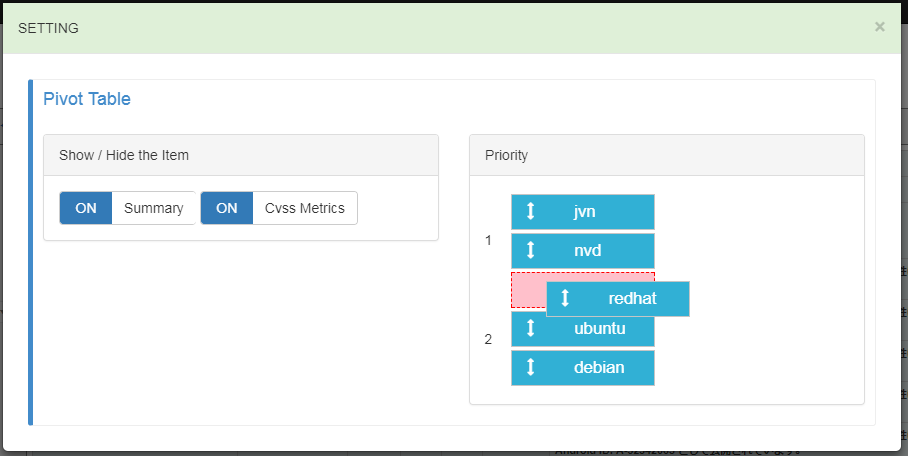
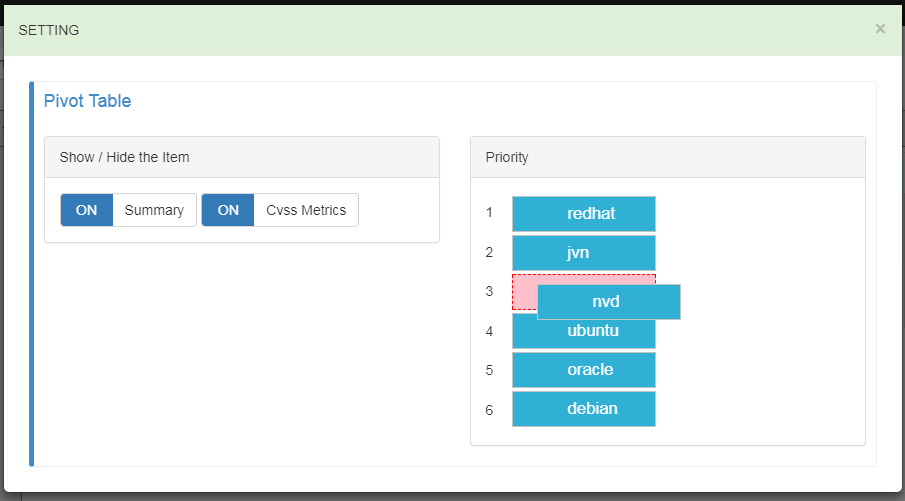
modify demo

diff --git a/dist/js/vulsrepo.js b/dist/js/vulsrepo.js
@@ -782,7 +782,7 @@ const createDetailData = function(cveID) {
 const initDetail = function() {
     $("#modal-label").text("");
     $("#count-References").text("0");
-    $("#CweID,#Link,#References").empty();
+    $("#CweID,#Link,#References,#radar-caluclatorV2,#radar-caluclatorV3").empty();
 
     $.each(vulsrepo.detailTaget, function(i, i_val) {
         $("#typeName_" + i_val).empty();
@@ -1030,6 +1030,10 @@ const displayDetail = function(cveID) {
         }
     }
 
+
+
+
+
     // ---Link---
     var addLink = function(target, url, disp) {
         $(target).append("<a href=\"" + url + "\" target='_blank'>" + disp + " </a>");
@@ -1039,14 +1043,9 @@ const displayDetail = function(cveID) {
     $("#Link").append("<span> / </span>");
     addLink("#Link", detailLink.cveDetail.url + data.CveID, detailLink.cveDetail.disp);
     $("#Link").append("<span> / </span>");
-    addLink("#Link", detailLink.cvssV2Calculator.url + data.CveID, detailLink.cvssV2Calculator.disp);
-    $("#Link").append("<span> / </span>");
-    addLink("#Link", detailLink.cvssV3Calculator.url + data.CveID, detailLink.cvssV3Calculator.disp);
-    $("#Link").append("<span> / </span>");
     $.each(getDistroAdvisoriesArray(data.DistroAdvisories), function(i, i_val) {
         addLink("#Link", i_val.url, i_val.disp);
     });
-
 
     addLink("#typeName_nvd", detailLink.nvd.url + data.CveID, detailLink.nvd.disp);
     if (data.CveContents.jvn !== undefined) {
@@ -1063,6 +1062,9 @@ const displayDetail = function(cveID) {
     addLink("#typeName_ubuntu", detailLink.ubuntu.url + data.CveID, detailLink.ubuntu.disp);
     addLink("#typeName_debian", detailLink.debian.url + data.CveID, detailLink.debian.disp);
     addLink("#typeName_oracle", detailLink.oracle.url + data.CveID + ".html", detailLink.oracle.disp);
+
+    addLink("#radar-caluclatorV2", detailLink.cvssV2Calculator.url + data.CveID, detailLink.cvssV2Calculator.disp);
+    addLink("#radar-caluclatorV3", detailLink.cvssV3Calculator.url + data.CveID, detailLink.cvssV3Calculator.disp);
 
     // ---References---
     let countRef = 0;

diff --git a/index.html b/index.html
@@ -213,9 +213,11 @@
                                                     <div class="tab-content">
                                                         <div class="tab-pane active" id="tab_chart_v2">
                                                             <canvas id="radar-chartV2" width="380" height="380"></canvas>
+                                                            <div id="radar-caluclatorV2" Align="center"></div>
                                                         </div>
                                                         <div class="tab-pane" id="tab_chart_v3">
                                                             <canvas id="radar-chartV3" width="380" height="380"></canvas>
+                                                            <div id="radar-caluclatorV3" Align="center"></div>
                                                         </div>
 
                                                     </div>
@@ -338,7 +340,7 @@
                                             <tbody>
                                                 <tr>
                                                     <td>1</td>
-                                                    <td rowspan="5">
+                                                    <td rowspan="6">
                                                         <ul id="pivot-priority">
                                                         </ul>
                                                     </td>
@@ -354,6 +356,9 @@
                                                 </tr>
                                                 <tr>
                                                     <td>5</td>
+                                                </tr>
+                                                <tr>
+                                                    <td>6</td>
                                                 </tr>
                                             </tbody>
                                         </table>

diff --git a/dist/js/vulsrepo_common.js b/dist/js/vulsrepo_common.js
@@ -553,11 +553,11 @@ const detailLink = {
     },
     cvssV2Calculator: {
         url: "https://nvd.nist.gov/vuln-metrics/cvss/v2-calculator?name=",
-        disp: "CVSSv2 Caluclator"
+        disp: "CVSS Calculator V2"
     },
     cvssV3Calculator: {
         url: "https://nvd.nist.gov/vuln-metrics/cvss/v3-calculator?name=",
-        disp: "CVSSv3 Caluclator"
+        disp: "CVSS Calculator V3"
     },
     rhel: {
         url: "https://access.redhat.com/security/cve/",
